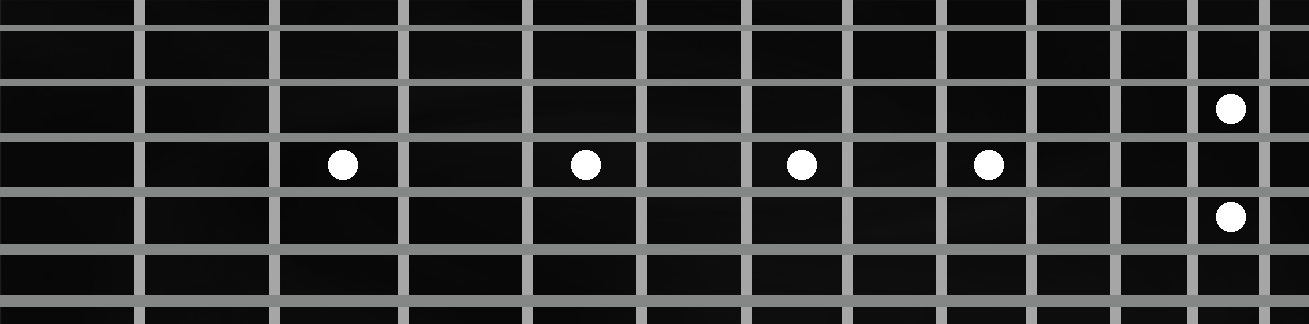
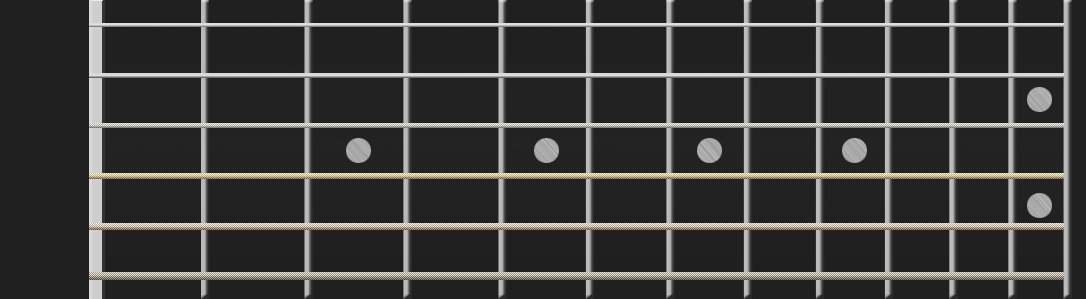
Reskin app with new design

diff --git a/index.html b/index.html
@@ -11,10 +11,14 @@
 	<div class="orientation_overlay">
 		<div>Your device must be in landscape mode to use this application</div>
 	</div>
-	<div class="app-window">
+	<div class="header">
+		<div class="logo"></div>
+		<div class="separator"></div>
+	</div>
 
+	<div class="content">
 		<!-- Top menu bar with application settings and information -->
-		<div class="menu-bar">
+		<!-- <div class="menu-bar">
 			<div class="menu-bar-label">ROOT NOTE:</div>
 			<div class="menu-button btn-fixed" ng-click="toggleRootNoteDropdown()" ng-class="{'open' : showRootNoteDropdown}">{{notes[settings.currentRootNote]}}</div>
 			<div class="menu-bar-label">SCALE:</div>
@@ -24,54 +28,37 @@
 	  	 	<div class="toggle" ng-click="changeNotation(true)" ng-class="{'selected':settings.flatNotation}">b</div>
 	  	 	<div class="menu-button btn-dynamic" ng-click="shiftTuning(1)">Tune Up</div>
 	  	 	<div class="menu-button btn-dynamic" ng-click="shiftTuning(-1)">Tune Down</div>
-	  	 </div>
-
-		<div class="content-area">
-			<!-- Selection box for Root Note -->
-			<div class="selection-box dropdown-top dropdown-root-note" ng-show="showRootNoteDropdown">
-				<div class="close-button" ng-click="toggleKeyDropdown()">X</div>
-				<div class="selection-box-container">
-					<div class="selection-box-option" ng-repeat="note in notes" ng-click="changeRootNote($index)">{{note}}</div>
+	  	</div> -->
+	  	<div class="menu">
+	  		<div class="menu-bar-label">ROOT NOTE:</div>
+			<div class="menu-button btn-fixed" ng-click="toggleRootNoteDropdown()" ng-class="{'open' : showRootNoteDropdown}">{{notes[settings.currentRootNote]}}</div>
+			<div class="menu-bar-label">SCALE:</div>
+			<div class="menu-button btn-dynamic" ng-click="toggleScaleDropdown()" ng-class="{'open' : showScaleDropdown}">{{scales[settings.currentScale].name}}</div>
+	  	 	<div class="menu-bar-label">NOTATION:</div>
+	  	 	<div class="toggle" ng-click="changeNotation(false)" ng-class="{'selected':!settings.flatNotation}">#</div>
+	  	 	<div class="toggle" ng-click="changeNotation(true)" ng-class="{'selected':settings.flatNotation}">b</div>
+	  	 	<div class="menu-button btn-dynamic" ng-click="shiftTuning(1)">Tune Up</div>
+	  	 	<div class="menu-button btn-dynamic" ng-click="shiftTuning(-1)">Tune Down</div>
+	  	</div>
+		<!-- Fretboard area that shows the color coded notes in the scale -->
+		<div class="fretboard">
+			<!-- Iterate through each string -->
+			<div ng-repeat="string in fretboard.strings" class="string">
+				<!-- Open note -->
+				<div class="open-note-container" ng-click="toggleTuner($index)" ng-class="{'open-note-active' : showTunerDropdown && currentString == $index}">
+					<div class="open-note" ng-class="{'open-in-key' : string.openNoteIsInScale, 'open-root' : string.openNoteIsRoot}">{{string.frets[11].note}}</div>
 				</div>
-			</div>
 
-			<!-- Selection box for Scales -->
-			<div class="selection-box dropdown-top dropdown-scale" ng-show="showScaleDropdown">
-				<div class="close-button">X</div>
-				<div class="selection-box-container">
-					<div class="selection-box-option" ng-repeat="scale in scales" ng-click="changeScale($index)">{{scale.name}}</div>
-				</div>
-			</div>
-
-			<!-- Selection box for changing tuning -->
-			<div class="selection-box dropdown-left" ng-show="showTunerDropdown">
-				<div class="close-button" ng-click="toggleTuner()">X</div>
-				<div class="selection-box-container">
-					<div class="selection-box-option" ng-repeat="note in notes" ng-click="changeTuning($index)">{{note}}</div>
-				</div>
-			</div>
-
-			<!-- Fretboard area that shows the color coded notes in the scale -->
-			<div class="fretboard">
-				<!-- Iterate through each string -->
-				<div ng-repeat="string in fretboard.strings" class="string">
-					<!-- Open note -->
-					<div class="open-note-container" ng-click="toggleTuner($index)" ng-class="{'open-note-active' : showTunerDropdown && currentString == $index}">
-						<div class="open-note" ng-class="{'open-in-key' : string.openNoteIsInScale, 'open-root' : string.openNoteIsRoot}">{{string.frets[11].note}}</div>
-					</div>
-
-					<!-- Iterate through remaining frets for current string -->
-					<div ng-repeat="fret in string.frets" class="fret fret-{{$index+1}}" ng-class="{'highlighted' : fret.isInScale}">
-						<div class="note" ng-class="{'root' : fret.isRoot}">
-						{{fret.note}}
-						</div>
+				<!-- Iterate through remaining frets for current string -->
+				<div ng-repeat="fret in string.frets" class="fret fret-{{$index+1}}" ng-class="{'highlighted' : fret.isInScale}">
+					<div class="note" ng-class="{'root' : fret.isRoot}">
+					{{fret.note}}
 					</div>
 				</div>
 			</div>
-
-			<!-- Translucent overlay that sits behind dropdowns on desktop version -->
-			<div class="overlay" ng-show="showKeyDropdown || showTunerDropdown || showScaleDropdown" ng-click="hideAllDropdowns()"></div>
 		</div>
+		<div class="fret-indicators"></div>	
+	</div>
 	</div>
 
 	<!--Import Scripts-->

diff --git a/css/style.css b/css/style.css
@@ -9,7 +9,7 @@ html {
 
 body {
 	height: 100%;
-	background-image: url(../images/background.png);
+	background-color: #202020;
 	font-family: cuyabra;
 	text-align: center;
 	color: white;
@@ -19,6 +19,10 @@ body {
 	   -moz-user-select: none;
 	    -ms-user-select: none;
 	        user-select: none;
+}
+
+.header {
+	padding-top: 1px;
 }
 
 .app-window {
@@ -31,16 +35,25 @@ body {
 	display: none;
 }
 
+.content {
+	background-image: url(../images/content_bg.png);
+	background-size: 1529px 615px;
+	background-position-x: center;
+	background-repeat: no-repeat;
+	width: 100%;
+	height: 615px;
+}
+
 .content-area {
-	display: -webkit-box;
+	display: none;
+	/*display: -webkit-box;
 		display: -ms-flexbox;
 		display: flex;
 		-webkit-box-flex: 1;
 		    -ms-flex: 1 1 auto;
-		        flex: 1 1 auto;
+		        flex: 1 1 auto;*/
 	position: relative;
-	background-image: url(../images/content_background.png);
-	background-size: 100% 100%;
+	background--color: #202020;
 	margin-left: 15px;
 	margin-right: 15px;
 	margin-bottom: 15px;
@@ -81,7 +94,7 @@ body {
 }
 
 .fret-2 {
-	width: 9.4%;
+	width: 9.6%;
 }
 
 .fret-3 {
@@ -89,19 +102,19 @@ body {
 }
 
 .fret-4 {
-	width: 8.9%;
+	width: 8.5%;
 }
 
 .fret-5 {
-	width: 8.2%;
+	width: 8.3%;
 }
 
 .fret-6 {
-	width: 7.3%;
+	width: 7.4%;
 }
 
 .fret-7 {
-	width: 7.2%;
+	width: 6.9%;
 }
 
 .fret-8 {
@@ -113,7 +126,7 @@ body {
 }
 
 .fret-10 {
-	width: 6.1%;
+	width: 5.9%;
 }
 
 .fret-11 {
@@ -125,8 +138,13 @@ body {
 }
 
 .fretboard {
-    width: 1100px;
-    height: 300px;
+    width: 100%;
+    max-width: 1086px;
+    height: 299px;
+    background-image: url(../images/fretboard_bg.png);
+    background-size: 100% 100%;
+
+    margin: auto;
     display: -webkit-box;
     display: -ms-flexbox;
     display: flex;
@@ -134,9 +152,37 @@ body {
     -webkit-box-direction: normal;
         -ms-flex-flow: column nowrap;
             flex-flow: column nowrap;
-    padding-top: 100px;
-    padding-bottom: 93px;
-    padding-left: 92px;
+    /*margin-top: 100px;
+    margin-bottom: 93px;
+    margin-left: 92px;*/
+}
+
+.fret-indicators {
+	background-image: url(../images/fret_indicators.png);
+	background-size: 100% 100%;
+	width: 100%;
+	max-width: 1086px;
+	height: 119px;
+	
+	margin-left: auto;
+	margin-right: auto;
+	margin-top: 10px;
+}
+
+.logo {
+	width: 328px;
+	height: 49px;
+	background-image: url(../images/logo.png);
+	background-size: 100% 100%;
+	margin-left: auto;
+    margin-right: auto;
+    margin-top: 25px;
+    margin-bottom: 25px;
+}
+
+.menu {
+	width: 100%;
+	height: 161px;
 }
 
 .menu-bar {
@@ -246,13 +292,15 @@ body {
     -webkit-box-pack: center;
         -ms-flex-pack: center;
             justify-content: center;
-    background-image: url(../images/button.png);
-    background-size: 100% 100%;
+    background-color: #818181;
+	border: 1px solid #5b5b5b;
+	border-radius: 45%;
     font-size: 1.2em;
 }
 
 .open-note:hover {
-	background-image: url(../images/button-active.png);
+	background-color: #9b9b9b;
+	border: 1px solid #747474;
 }
 
 .open-note-active {
@@ -264,24 +312,28 @@ body {
 }
 
 .open-note-container {
-    width: 8.8%;
+    width: 9.4%;
     float: left;
     position: relative;
 }
 
 .open-in-key {
-	background-image: url(../images/button-in-key.png);
+	background-color: #c456ad;
+	border: 1px solid #983584;
 }
 
 .open-in-key:hover {
-	background-image: url(../images/button-in-key-active.png);
+	background-color: #d17cbf;
+	border: 1px solid #bd43a4;
 }
 
 .open-root {
-	background-image: url(../images/button-root.png);
+	background-color: #60d787;
+	border: 1px solid #2fbb5d;
 }
 .open-root:hover {
-	background-image: url(../images/button-root-active.png);
+	background-color: #89e1a6;
+	border: 1px solid #4cd278;
 }
 
 .orientation_overlay {
@@ -335,6 +387,15 @@ body {
 
 .selection-box-option:hover {
 	background-color: #333333;
+}
+
+.separator {
+	width: 100%;
+	max-width: 1009px;
+	height: 3px;
+	background-image: url(../images/separator.png);
+	background-size: 100% 100%;
+	margin: auto;
 }
 
 .show_all_notes_div {
